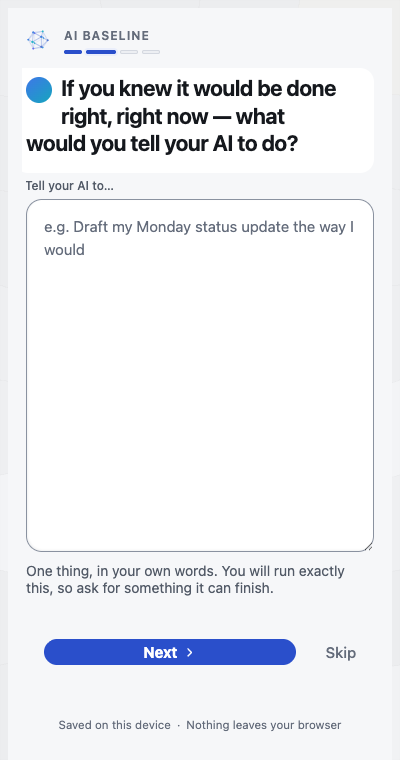
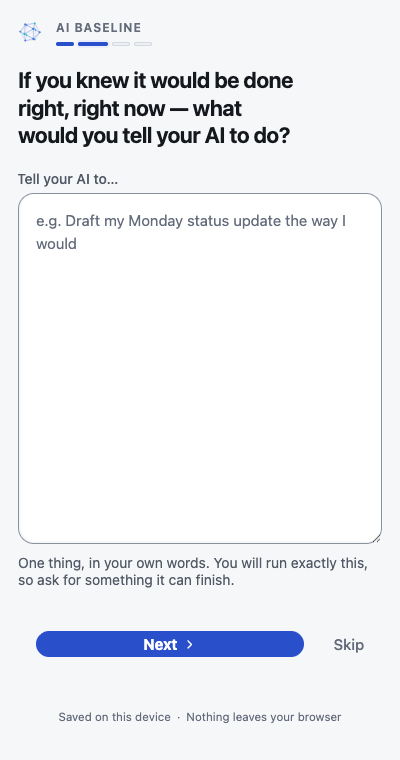
Baseline screen: no scroll, no mark, one ground, matched sizes
Four of Adam's six notes. Each was a real defect with a findable cause, so
each cause is recorded rather than just the fix.

NO SCROLL BELOW THE SAVE NOTE. The panel had 1022px of document in a 760px
viewport — 262px of nothing to scroll through under the save line. Two causes
stacked. `.flowshell` reserves `--flow-reserve` of bottom padding for the
dock, and this screen sets no shell style props at all (there is no dock to
measure), so it was taking the 254px FALLBACK and holding a dock-shaped hole
open under a screen with no dock. Under that, the form's own
`min-height: 100dvh` sat inside a shell that was already 100dvh.

Fixed by making the bare shell `position: fixed; inset: 0` rather than by more
arithmetic. This screen IS the panel — no drawer, no dock — and a fixed box
cannot be pushed past the viewport by anything inside it. The document now has
no scrollable height at all, which is the actual requirement: not less scroll,
none. The save note lands on the bottom edge.

NO SPEAKER'S MARK. Concept 2's device for making a question read as a spoken
turn, which is right for an interview and wrong here. A prompt box has no
speaker, and the mark was the last thing making this look like somebody else's
message rather than the person's own composer.

ONE GROUND. The question sat in a white bubble on the grey ground — a second
surface laid over the first. The bubble keeps its box for layout and stops
[…]

diff --git a/src/panel/surfaces/Flow.css b/src/panel/surfaces/Flow.css
@@ -2260,3 +2260,53 @@
 .flow--prompt .flow-order .btn {
   margin-left: -10px;
 }
+
+/* ── NO SCROLL BELOW THE SAVE NOTE ─────────────────────────────────────────
+   The bare shell was min-height 100dvh holding a form that was ALSO 100dvh
+   (its own min-height, minus an offset this screen sets to zero), so the save
+   note and the body's top margin were pure overflow: 1022px of document in a
+   760px panel, and 262px of nothing to scroll through underneath.
+
+   `position: fixed` rather than more arithmetic. This screen is the only
+   thing on the panel — no drawer, no dock — so it can simply BE the panel,
+   and a fixed box cannot be pushed past the viewport by anything inside it.
+   The document then has no scrollable height at all, which is the actual
+   requirement: not "less scroll" but none. */
+.flowshell--bare {
+  position: fixed;
+  inset: 0;
+  display: flex;
+  flex-direction: column;
+  min-height: 0;
+  /* `.flowshell` reserves `--flow-reserve` at the bottom for the dock. This
+     screen sets no shell style props at all — there is no dock to measure —
+     so it was taking the 254px FALLBACK and holding a dock-shaped hole open
+     under a screen with no dock. That was the whole of the 262px. */
+  padding-bottom: 0;
+}
+.flowshell--bare .flow {
+  flex: 1;
+  min-height: 0;
+}
+
+/* ── ONE GROUND, NO CARDS ──────────────────────────────────────────────────
+   The question sat in a white bubble on the grey ground, which is Concept 2's
+   chat treatment. On a composer it reads as a second surface laid over the
+   first (Adam: "some has a solid background and is covering the pattern").
+   The bubble keeps its box for layout and stops painting: one ground, and the
+   only white left on the screen is the input, which SHOULD look like an
+   input. */
+.flow--prompt .flow-bubble {
+  background: none;
+  border-radius: 0;
+  margin-left: 0;
+  padding-left: 0;
+  padding-right: 0;
+}
+
+/* The stem and the note under the box are one pair saying one thing, so they
+   are set at one size — `.flow-hint`'s 14px, matched as a literal rather than
+   through a token because that is how the rule it is matching is written. */
+.flow--prompt .flow-field-sr-label .field-label {
+  font-size: 14px;
+}

diff --git a/src/panel/surfaces/Flow.tsx b/src/panel/surfaces/Flow.tsx
@@ -2656,7 +2656,13 @@ function StepView({
                     it costs the FIRST LINE's measure and nothing else, which
                     is the trade every chat interface already makes: a
                     speaker's mark belongs to the line it is speaking. */}
-                <span className="flow-mark" aria-hidden="true" />
+                {/* The speaker's mark is dropped on the baseline screen
+                    (Adam, 2026-08-31). It is Concept 2's device for making a
+                    question read as a spoken turn — right for an interview,
+                    wrong here: a prompt box has no speaker, and a mark beside
+                    the text is the last thing making this look like somebody
+                    else's message rather than the person's own composer. */}
+                {!bare && <span className="flow-mark" aria-hidden="true" />}
                 {/* V1.2 VB-10: the question types itself in on arrival. Inside
                     a bubble that stops being an effect and becomes the obvious
                     thing — a message being written. */}
